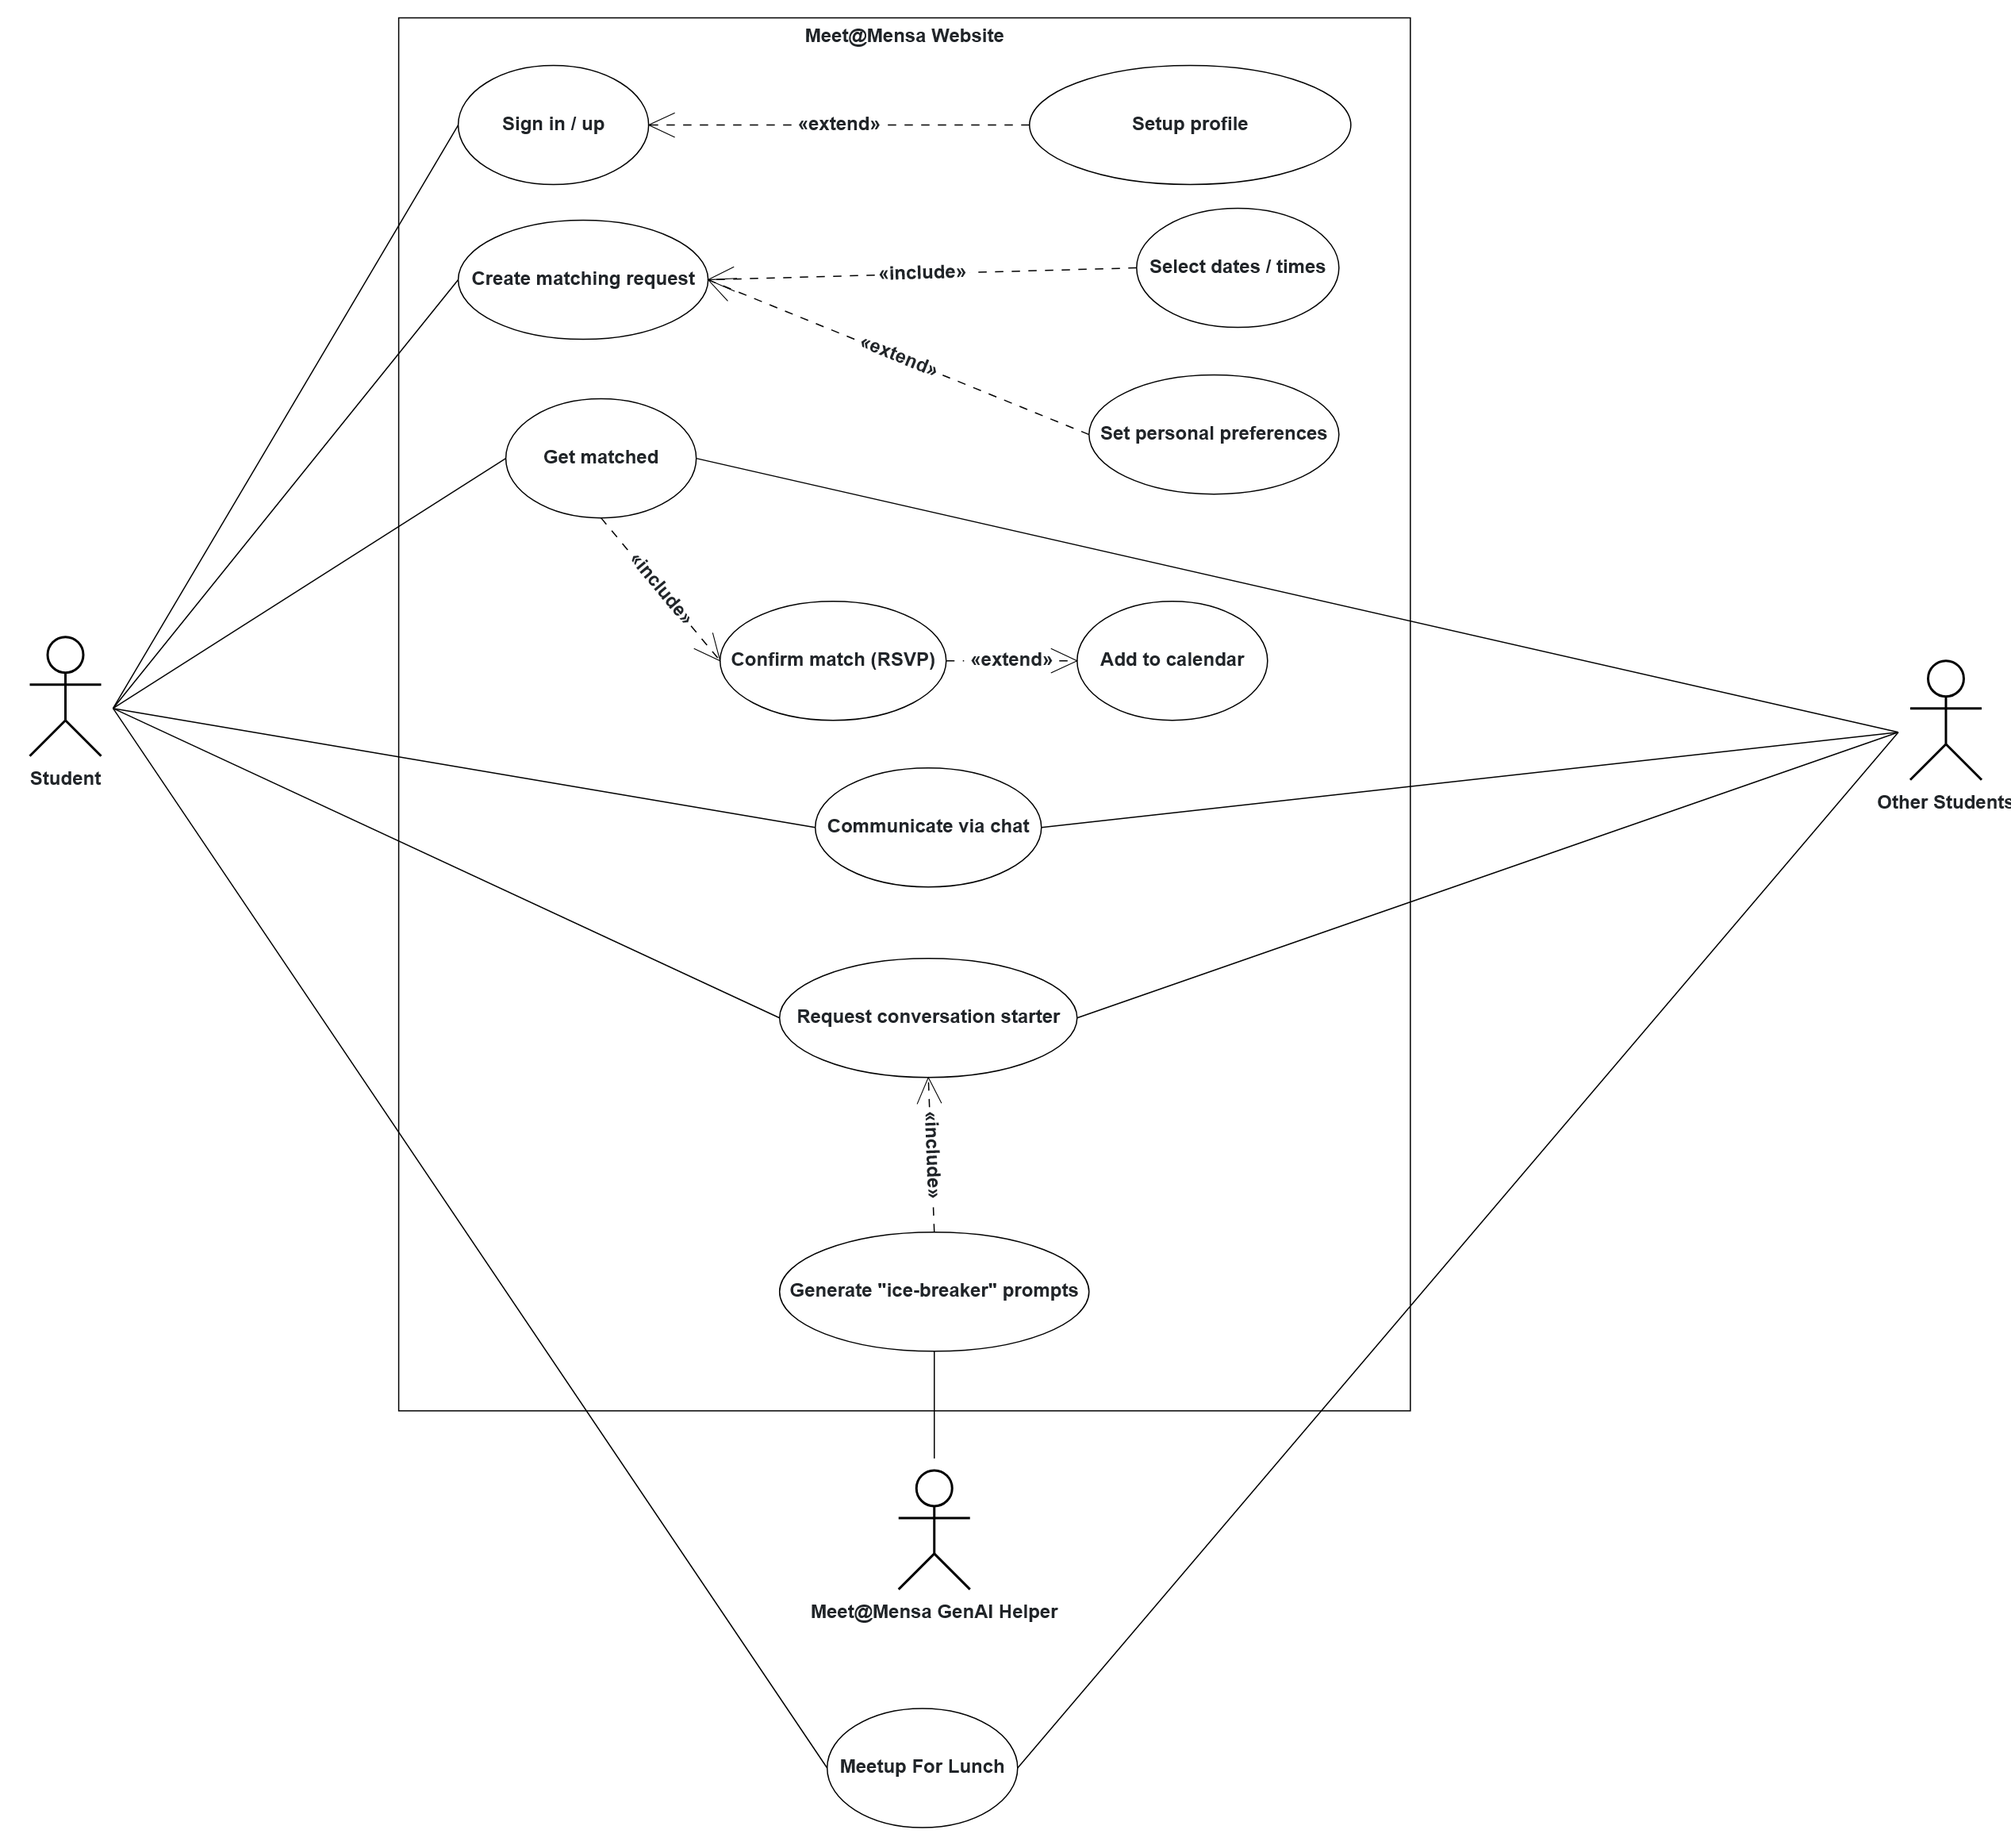
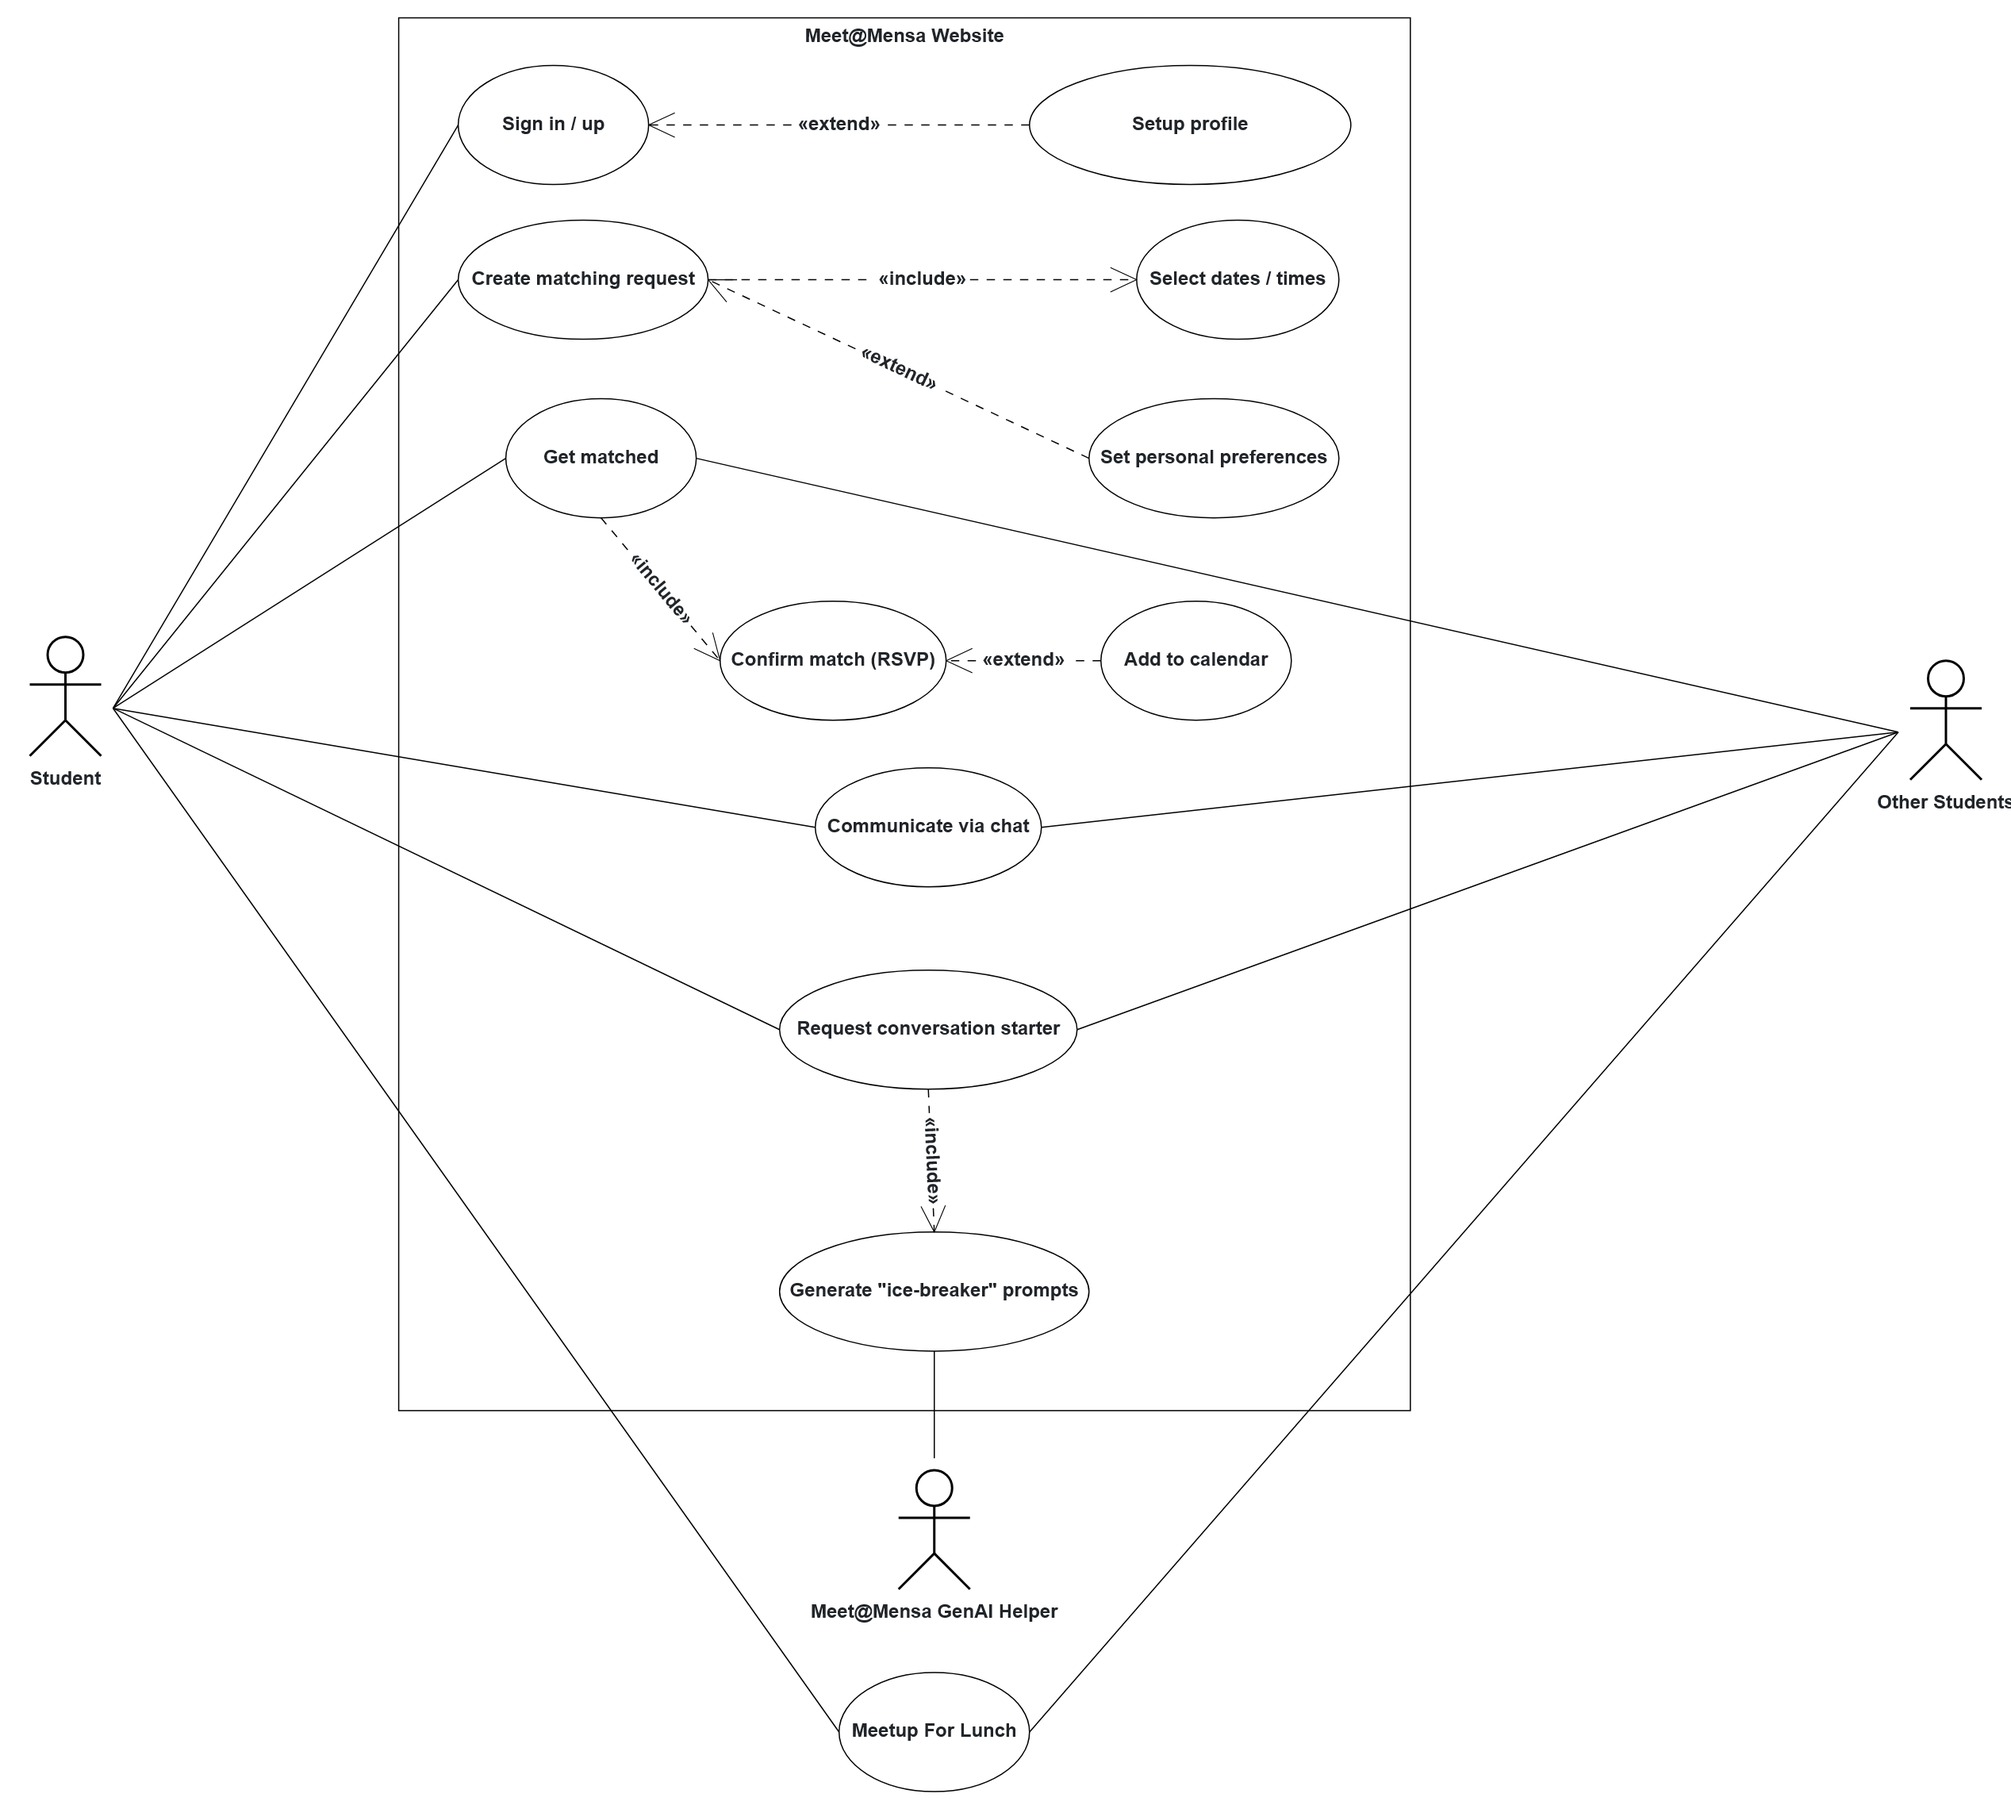
Corrected arrow direction for several include cases

diff --git a/README.md b/README.md
@@ -28,7 +28,7 @@ TODO: @Enrico
 
 ### Use Case Diagram
 
-![Class Diagram](docs/Meet@Mensa_UML_use_case.png "Meet@Mensa Use-Case Diagram")
+![Use-Case Diagram](docs/Meet@Mensa_UML_use_case.png "Meet@Mensa Use-Case Diagram")
 
 ### Component Diagram (top-level architecture)
 
